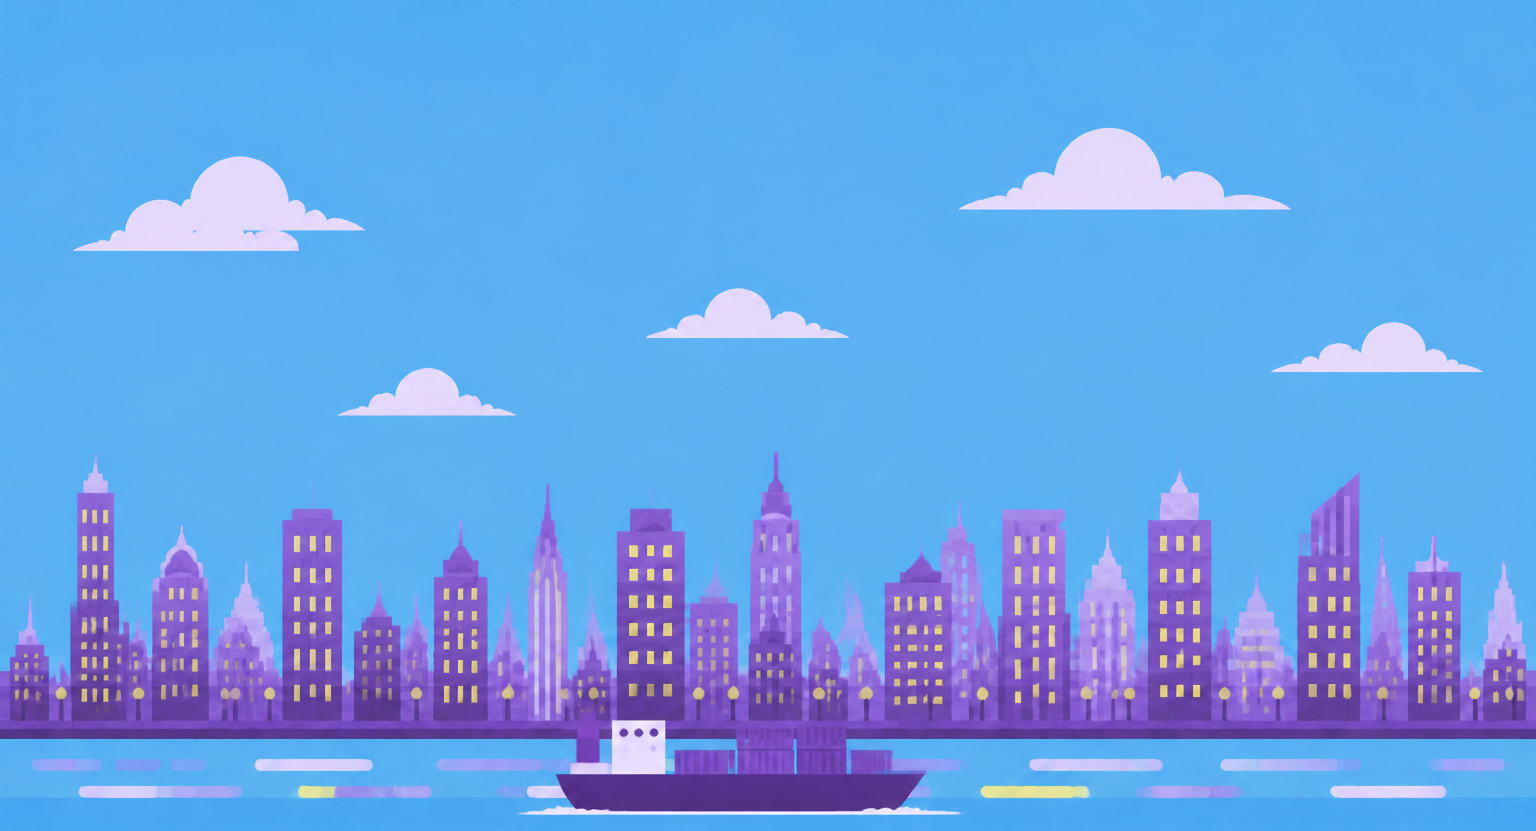
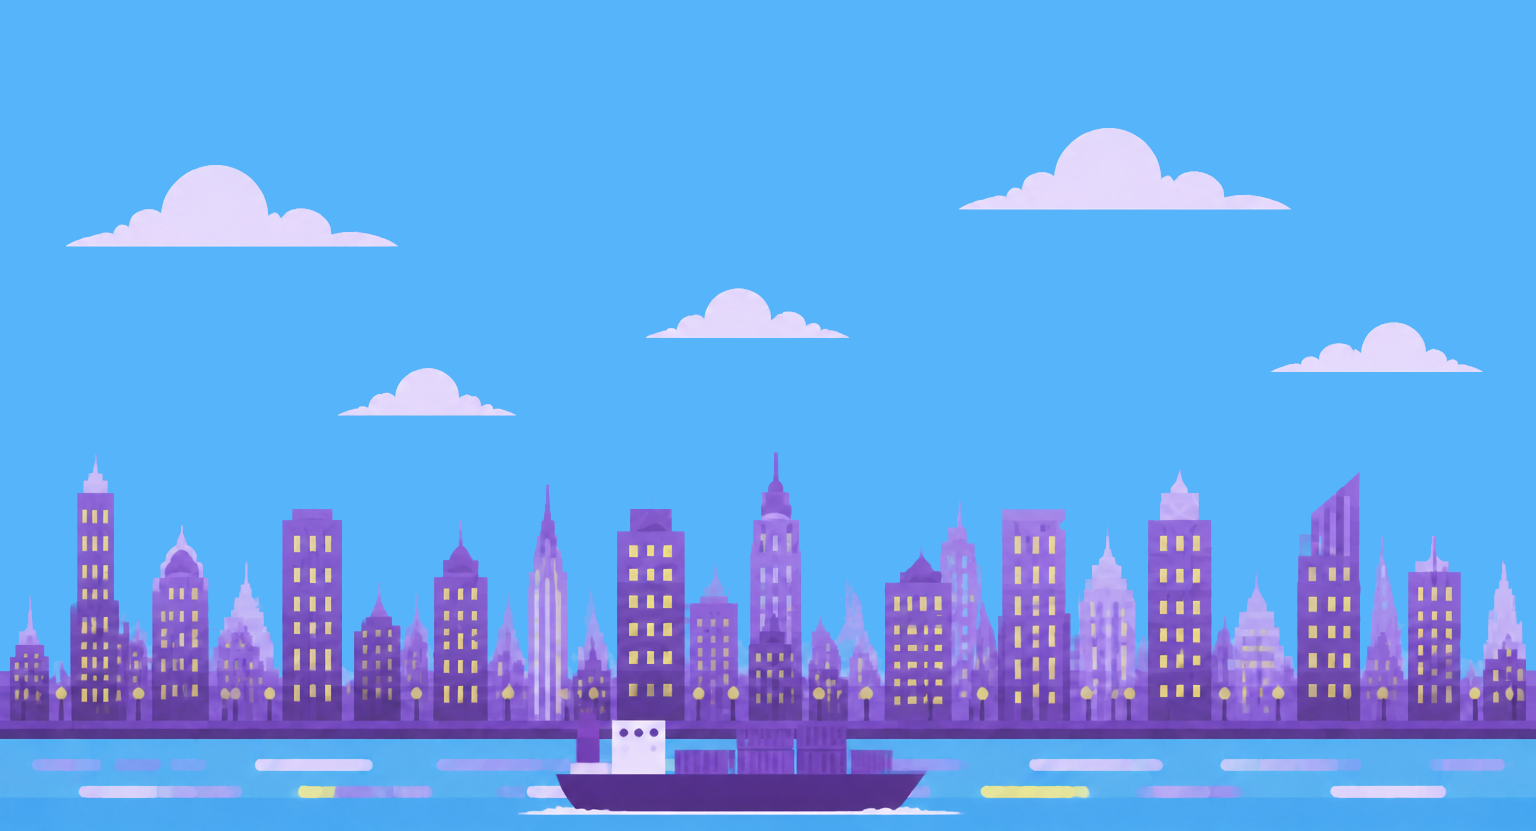
Unified background color, added QR code and a link to Venipak app download page on desktop

Changed region(s): [[0.0312, 0.1805, 0.25, 0.3008]]

diff --git a/index.html b/index.html
@@ -160,7 +160,7 @@
   .stat{text-align:center;}
   .stat .num{font-family:'Space Grotesk',sans-serif; font-weight:700; font-size:26px; color:var(--ink);}
   .stat .lbl{font-size:10px; text-transform:uppercase; letter-spacing:0.08em; color:var(--muted);}
-  .app-promo{ display:flex; flex-direction:column; align-items:center; gap:8px; margin:2px 0 18px; flex-shrink:0; }
+  .app-promo{ display:flex; flex-direction:column; align-items:center; gap:8px; margin:2px 0 0; flex-shrink:0; }
   .app-promo-text{ font-size:12.5px; color:var(--ink); font-weight:600; max-width:300px; }
   .app-badges{ display:flex; align-items:center; justify-content:center; gap:10px; }
   .app-badges a{ display:block; -webkit-tap-highlight-color:transparent; }
@@ -169,6 +169,15 @@
   /* a badge whose store URL hasn't been filled in yet shouldn't pretend to be clickable */
   .app-badges a:not([href]){ cursor:default; }
   .app-badges img{ height:36px; width:auto; display:block; }
+  /* Store badges are for the device that can actually install from them; a desktop visitor gets
+     a Download link to the app page plus a QR code to carry it across to their phone. */
+  #download-btn{ display:none; text-decoration:none; margin-top:2px; }
+  #app-qr{ display:none; width:84px; height:84px; border-radius:6px; }
+  @media (pointer: fine){
+    .app-badges{ display:none; }
+    #download-btn{ display:inline-block; }
+    #app-qr{ display:block; }
+  }
   /* The HUD is DOM rather than something drawn into the Phaser canvas: the canvas renders at a
      fixed 720px-wide framebuffer and CSS stretches it to fill the card (1.67x at a 1200px card,
      more again on a 2x display), which visibly softened the text and bar. As real elements these
@@ -210,6 +219,25 @@
     /* matches the old PORTRAIT_HUD_SCALE: the strip reads thin against the taller portrait canvas */
     #hud{ font-size:calc(min(100vw, 720px) / 72 * 1.35); }
   }
+  /* Confetti is DOM rather than Phaser particles for one reason: the win overlay is opaque and
+     sits above the canvas, so canvas confetti vanishes the moment the success screen appears.
+     At z-index 15 this layer sits above the overlay (10) and below the controls (20), so the
+     celebration keeps falling over the success card. */
+  #confetti{ position:absolute; inset:0; z-index:15; pointer-events:none; overflow:hidden; display:none; }
+  #confetti.active{ display:block; }
+  .confetti-piece{
+    position:absolute; top:0;
+    animation-name:confetti-fall; animation-timing-function:linear; animation-iteration-count:infinite;
+    /* backwards: hold the first keyframe (above the top edge) during the start delay, otherwise a
+       staggered piece would sit parked at the top of the card until its turn came round */
+    animation-fill-mode:backwards;
+  }
+  @keyframes confetti-fall{
+    from{ transform:translate3d(0, -40px, 0) rotate(0deg); }
+    to  { transform:translate3d(var(--drift,0px), var(--fall,600px), 0) rotate(var(--spin,720deg)); }
+  }
+  /* The success screen fades up over the scene instead of cutting to it — see showWinOverlay(). */
+  #win-overlay{ opacity:1; }
   #hint{ position:absolute; bottom:8px; left:0; right:0; text-align:center; color:rgba(122,106,153,0.6); font-size:10.5px; letter-spacing:0.03em; z-index:5; pointer-events:none; }
   #watermark{ position:absolute; bottom:10px; right:14px; z-index:6; opacity:0.55; pointer-events:none; }
   #watermark img{ height:13px; width:auto; display:block; }
@@ -247,7 +275,7 @@
     .stat-row{ gap:14px; margin-bottom:2px; }
     .stat .num{ font-size:15px; }
     .stat .lbl{ font-size:7px; }
-    .app-promo{ gap:4px; margin:0 0 9px; }
+    .app-promo{ gap:4px; margin:0; }
     .app-promo-text{ font-size:8.5px; max-width:220px; }
     .app-badges{ gap:6px; }
     .app-badges img{ height:24px; }
@@ -278,7 +306,7 @@
     #win-overlay .btn, #gameover-overlay .btn{ font-size:16px; padding:11px 28px; border-radius:10px; box-shadow:0 4px 0 #4a2570; }
     #win-overlay .btn.secondary, #gameover-overlay .btn.secondary{ font-size:13px; padding:8px 18px; box-shadow:none; }
     #win-overlay .btn-stack, #gameover-overlay .btn-stack{ gap:9px; margin-top:7px; }
-    #win-overlay .app-promo{ gap:8px; margin:0 0 18px; }
+    #win-overlay .app-promo{ gap:8px; margin:0; }
     #win-overlay .app-promo-text{ font-size:14px; max-width:290px; }
     #win-overlay .app-badges{ gap:10px; }
     #win-overlay .app-badges img{ height:38px; }
@@ -303,7 +331,8 @@
     .stat-row{ gap:34px; margin-bottom:11px; }
     .stat .num{ font-size:34px; }
     .stat .lbl{ font-size:13px; }
-    .app-promo{ gap:14px; margin:6px 0 28px; }
+    .app-promo{ gap:14px; margin:6px 0 0; }
+    #app-qr{ width:120px; height:120px; }
     .app-promo-text{ font-size:18px; max-width:440px; }
     .app-badges{ gap:16px; }
     .app-badges img{ height:54px; }
@@ -370,12 +399,11 @@
         <a id="app-store-link" target="_blank" rel="noopener noreferrer"><img src="assets/images/logos/app-store.svg" alt="Download on the App Store"></a>
         <a id="google-play-link" target="_blank" rel="noopener noreferrer"><img src="assets/images/logos/google-play.svg" alt="Get it on Google Play"></a>
       </div>
-    </div>
-    <div class="btn-stack">
-      <button class="btn" id="play-again-btn">PLAY AGAIN</button>
-      <button class="btn secondary" id="home-btn-win">BACK TO HOME</button>
+      <a class="btn" id="download-btn" target="_blank" rel="noopener noreferrer">DOWNLOAD</a>
+      <img id="app-qr" src="assets/images/app-qr-code.png" alt="QR code to download the Venipak app">
     </div>
   </div>
+  <div id="confetti"></div>
   <div id="hud">
     <div class="hud-dist">
       <div class="hud-dist-num" id="hud-distance">0 m</div>
@@ -403,8 +431,10 @@
 // --- Edit me: the win screen's app promo. ---
 // Leave a URL empty and that badge simply renders as a non-clickable image. Which badge and
 // which line of copy appear depends on the device — see detectMobileOS() further down.
+// DOWNLOAD_URL is the desktop equivalent: one button in place of the two store badges.
 const APP_STORE_URL = 'https://apps.apple.com/';
 const GOOGLE_PLAY_URL = 'https://play.google.com/';
+const DOWNLOAD_URL = 'https://venipak.com/lt/app/download/';
 const APP_PROMO_TEXT = {
   ios: 'Download Venipak app on iOS',
   android: 'Download Venipak app on Android',
@@ -414,7 +444,7 @@ const APP_PROMO_TEXT = {
 const BRAND = 0x9339f2;
 const BRAND_DEEP = 0x5b1fa6;
 
-const LEVEL_DISTANCE = 1000;
+const LEVEL_DISTANCE = 3000;
 // Pace of the whole arrival: the machine's slide-in, the world scroll behind it, and the
 // courier's walk all run at this speed. The walk cycle's frame rate was authored against
 // WALK_CYCLE_TUNED_SPEED, so setCourierAnim() scales the animation by the ratio between the two —
@@ -430,12 +460,13 @@ const WALK_CYCLE_TUNED_SPEED = 150;
 const ARRIVAL_STOP_OVERLAP = 35;
 const ARRIVAL_EASE_DISTANCE = 50;
 const ARRIVAL_EASE_MIN = 0.3;
-// Arrival beats: the courier stops in front of the machine, holds for a moment, then the machine
-// opens with the confetti, and the win screen follows once that has played out. The door
-// animation itself is 30 frames at ~24fps (~1.3s), so WIN_SCREEN_DELAY only needs to outlast
-// that — the rest would just be staring at an open locker.
+// Arrival beats: the courier stops in front of the machine, holds for PARCEL_OPEN_DELAY, then the
+// machine opens and the confetti starts together; WIN_SCREEN_DELAY later the win screen begins
+// fading in over WIN_FADE_MS. The scene stays visible through the fade, so the door animation
+// (30 frames at ~24fps, ~1.3s) and the courier's lift still read before it is fully covered.
 const PARCEL_OPEN_DELAY = 500;
-const WIN_SCREEN_DELAY = 1600;
+const WIN_SCREEN_DELAY = 500;
+const WIN_FADE_MS = 1200;
 // Spawning stops this far out so the road is clear by the time the courier walks it. Obstacles
 // keep scrolling through the machine's slide-in (see update()), which buys some of that clearing
 // time back, so the gap doesn't have to cover the whole journey off-screen on its own — it only
@@ -565,7 +596,7 @@ const COURIER_ANIMS = {
     atlasKey:'courier_raise', png:'assets/animations/courier_raising_the_box.png', json:'assets/animations/courier_raising_the_box.json',
     prefix:'courier_raising_the_box_raising-the-box-up_', suffix:'.png', start:0, end:66,
     originX:42.5/225, originY:255/256, loop:false, heightRatio:249/195,
-    durationMs: PARCEL_OPEN_DELAY + WIN_SCREEN_DELAY
+    durationMs: PARCEL_OPEN_DELAY + WIN_SCREEN_DELAY + WIN_FADE_MS
   }
 };
 
@@ -592,17 +623,6 @@ class RunnerScene extends Phaser.Scene {
     // obstacles and the parcel machine keep the full shift
     this.courierY = h*GROUND_Y_RATIO + GROUND_Y_SHIFT/2;
     gameState = { distance:0, durability:DURABILITY_MAX, speed:340, running:true, vy:0, y:this.courierY, isJumping:false, isDucking:false };
-
-    // Tiny generated confetti-fleck texture (no image asset needed) used for the arrival
-    // celebration once the courier reaches the parcel machine — see launchConfetti().
-    if(!this.textures.exists('confetti_particle')){
-      const cg = this.make.graphics({ x:0, y:0, add:false });
-      cg.fillStyle(0xffffff, 1);
-      cg.fillRect(0, 0, 6, 10);
-      cg.generateTexture('confetti_particle', 6, 10);
-      cg.destroy();
-    }
-    this.confettiEmitter = null;
 
     // The parcel machine's opening animation (plays once, in place of the static image, when
     // the courier reaches it) shares the same create-once-reuse pattern as the courier's anims.
@@ -861,6 +881,7 @@ class RunnerScene extends Phaser.Scene {
       if(this.finish.x <= this.finish.restX){
         this.finish.x = this.finish.restX;
         this.finish.settled = true;
+        startConfetti(); // the machine is in place and the courier sets off — celebrate from here
       }
       this.finish.img.x = this.finish.x;
       return; // the courier waits for the machine to settle before it starts walking
@@ -882,8 +903,8 @@ class RunnerScene extends Phaser.Scene {
 
   // Fires once, the instant the courier reaches the machine: he switches from the walk cycle to
   // lifting the box in, then after a beat the static machine image swaps for its opening
-  // animation (played once) with the confetti going off at the same moment, and the win screen
-  // follows once that has had time to play out.
+  // animation (played once), and the win screen follows once that has had time to play out.
+  // The confetti is already falling by this point — it starts when he sets off (updateFinish).
   startParcelOpening(){
     this.setCourierAnim('raise');
 
@@ -899,37 +920,10 @@ class RunnerScene extends Phaser.Scene {
       const openScale = this.finish.targetH / openFrame.height;
       this.finish.img.setDisplaySize(openFrame.width*openScale, this.finish.targetH);
 
-      this.launchConfetti();
-
       this.time.delayedCall(WIN_SCREEN_DELAY, ()=>{
         this.endGame(true);
       });
     });
-  }
-
-  // Celebration burst the instant the courier reaches the parcel machine and its opening
-  // animation starts (see startParcelOpening()). Built from a generated texture (no image
-  // asset), so it works even if the client's real confetti/firework art from Makko AI never
-  // materializes; swapping in a sprite-based effect later only means changing what's added
-  // inside this method.
-  launchConfetti(){
-    if(this.confettiEmitter) return;
-    const colors = [BRAND, 0xe7f43b, 0xffffff, 0x643395, 0xc79cf5];
-    this.confettiEmitter = this.add.particles(0, -20, 'confetti_particle', {
-      x: { min: this.scale.width*0.3, max: this.scale.width*0.95 },
-      y: -20,
-      lifespan: 2200,
-      speedY: { min: 120, max: 260 },
-      speedX: { min: -60, max: 60 },
-      gravityY: 220,
-      rotate: { min: 0, max: 360 },
-      scale: { start: 1, end: 0.6 },
-      quantity: 4,
-      frequency: 40,
-      tint: colors
-    }).setDepth(15);
-    this.time.delayedCall(1600, ()=>{ if(this.confettiEmitter) this.confettiEmitter.stop(); });
-    this.time.delayedCall(4000, ()=>{ if(this.confettiEmitter){ this.confettiEmitter.destroy(); this.confettiEmitter = null; } });
   }
 
   update(time, delta){
@@ -1057,15 +1051,17 @@ class RunnerScene extends Phaser.Scene {
   endGame(won){
     if(!gameState.running) return;
     gameState.running = false;
+    if(won){
+      // No extra beat here: the win screen's timing is already orchestrated by the arrival
+      // (PARCEL_OPEN_DELAY then WIN_SCREEN_DELAY), and it fades up rather than cutting in.
+      document.getElementById('win-distance').textContent = Math.floor(gameState.distance)+'m';
+      document.getElementById('win-condition').textContent = Math.round(gameState.durability)+'%';
+      showWinOverlay();
+      return;
+    }
     this.time.delayedCall(250, ()=>{
-      if(won){
-        document.getElementById('win-distance').textContent = Math.floor(gameState.distance)+'m';
-        document.getElementById('win-condition').textContent = Math.round(gameState.durability)+'%';
-        document.getElementById('win-overlay').classList.remove('hidden');
-      } else {
-        document.getElementById('go-distance').textContent = Math.floor(gameState.distance)+'m';
-        document.getElementById('gameover-overlay').classList.remove('hidden');
-      }
+      document.getElementById('go-distance').textContent = Math.floor(gameState.distance)+'m';
+      document.getElementById('gameover-overlay').classList.remove('hidden');
     });
   }
 }
@@ -1150,11 +1146,85 @@ if(duckBtn){
   });
 }
 
+// --- Confetti ---
+// Pieces are plain elements on a layer above the win overlay, each falling on its own infinite
+// CSS animation, so the celebration carries on over the success screen instead of being hidden
+// behind it. Every piece begins above the top edge (the keyframe starts at -40px, outside the
+// clipped layer) with a staggered start, so the confetti falls into view rather than appearing
+// already scattered across the whole screen.
+const CONFETTI_COLORS = ['#9339f2', '#e7f43b', '#ffffff', '#643395', '#c79cf5'];
+const CONFETTI_PIECES = 70;
+// How long the confetti keeps falling before it winds down. Pieces already in the air finish
+// their drop, so the rain thins out naturally over the following few seconds instead of
+// vanishing all at once.
+const CONFETTI_DURATION_MS = 7000;
+let confettiStopTimer = null;
+function startConfetti(){
+  const layer = document.getElementById('confetti');
+  if(layer.classList.contains('active')) return;
+  // Reveal the layer before measuring: it is display:none until then, which would report a
+  // height of 0 and leave every piece looping over a tiny stretch at the top of the card.
+  layer.classList.add('active');
+  const fall = layer.clientHeight + 80;
+  const frag = document.createDocumentFragment();
+  for(let i=0;i<CONFETTI_PIECES;i++){
+    const p = document.createElement('div');
+    p.className = 'confetti-piece';
+    const w = 4 + Math.random()*5;
+    p.style.left = (Math.random()*98)+'%'; // not a full 100 — a piece at the edge is clipped away
+    p.style.width = w+'px';
+    p.style.height = (w*1.6)+'px';
+    p.style.background = CONFETTI_COLORS[(Math.random()*CONFETTI_COLORS.length)|0];
+    p.style.setProperty('--fall', fall+'px');
+    p.style.setProperty('--drift', (Math.random()*80-40)+'px');
+    p.style.setProperty('--spin', (360+Math.random()*720)+'deg');
+    p.style.animationDuration = (2.2+Math.random()*2)+'s';
+    p.style.animationDelay = (Math.random()*2)+'s'; // staggered, but never mid-fall on frame one
+    frag.appendChild(p);
+  }
+  layer.appendChild(frag);
+  clearTimeout(confettiStopTimer);
+  confettiStopTimer = setTimeout(retireConfetti, CONFETTI_DURATION_MS);
+}
+// Each piece bows out the next time its loop wraps back to the top, which happens off-screen —
+// so the rain tails off over one fall's worth of time rather than popping out mid-air.
+function retireConfetti(){
+  const layer = document.getElementById('confetti');
+  [...layer.children].forEach(p=>{
+    p.addEventListener('animationiteration', ()=>p.remove(), { once:true });
+  });
+}
+function stopConfetti(){
+  clearTimeout(confettiStopTimer);
+  confettiStopTimer = null;
+  const layer = document.getElementById('confetti');
+  layer.classList.remove('active');
+  layer.replaceChildren();
+}
+
+// Fades the success screen up over the still-running scene rather than cutting to it.
+function showWinOverlay(){
+  const ov = document.getElementById('win-overlay');
+  ov.style.transition = 'none';
+  ov.style.opacity = '0';
+  ov.classList.remove('hidden');
+  void ov.offsetWidth; // commit the starting opacity before transitioning away from it
+  ov.style.transition = 'opacity '+WIN_FADE_MS+'ms ease';
+  ov.style.opacity = '1';
+}
+function resetWinOverlay(){
+  const ov = document.getElementById('win-overlay');
+  ov.classList.add('hidden');
+  ov.style.transition = 'none';
+  ov.style.opacity = '1';
+}
+
 // --- Loading progress (asset loads can take a while on slow connections) ---
 function showLoadingOverlay(){
   document.getElementById('start-overlay').classList.add('hidden');
   document.getElementById('gameover-overlay').classList.add('hidden');
-  document.getElementById('win-overlay').classList.add('hidden');
+  stopConfetti();
+  resetWinOverlay();
   setLoadingProgress(0);
   document.getElementById('loading-overlay').classList.remove('hidden');
 }
@@ -1179,7 +1249,8 @@ function startGame(){
 
 function goHome(){
   document.getElementById('gameover-overlay').classList.add('hidden');
-  document.getElementById('win-overlay').classList.add('hidden');
+  stopConfetti();
+  resetWinOverlay();
   document.getElementById('loading-overlay').classList.add('hidden');
   document.getElementById('start-overlay').classList.remove('hidden');
   if(game){ game.destroy(true); game = null; }
@@ -1205,13 +1276,12 @@ function bindTap(el, handler){
 
 bindTap(document.getElementById('start-btn'), startGame);
 bindTap(document.getElementById('retry-btn'), startGame);
-bindTap(document.getElementById('play-again-btn'), startGame);
 bindTap(document.getElementById('home-btn-go'), goHome);
-bindTap(document.getElementById('home-btn-win'), goHome);
 
-// Store badges point at the URLs set at the top of this script; an unset one stays hrefless
-// so it renders as a plain image rather than a link that goes nowhere.
-[['app-store-link', APP_STORE_URL], ['google-play-link', GOOGLE_PLAY_URL]].forEach(function(pair){
+// Store badges and the desktop Download button point at the URLs set at the top of this script;
+// an unset one stays hrefless so it renders as plain content rather than a link going nowhere.
+[['app-store-link', APP_STORE_URL], ['google-play-link', GOOGLE_PLAY_URL],
+ ['download-btn', DOWNLOAD_URL]].forEach(function(pair){
   const el = document.getElementById(pair[0]);
   if(el && pair[1]) el.href = pair[1];
 });
